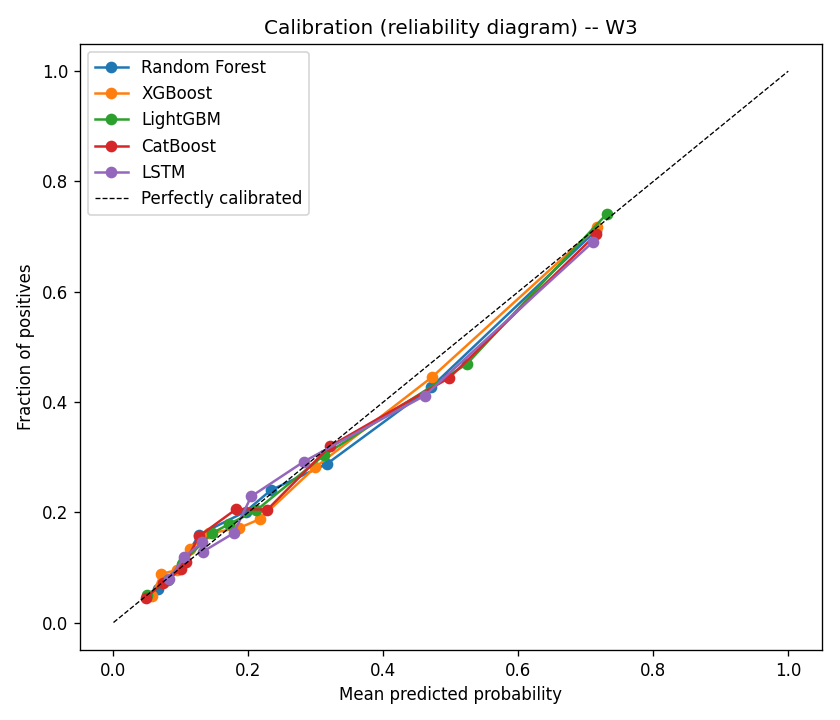
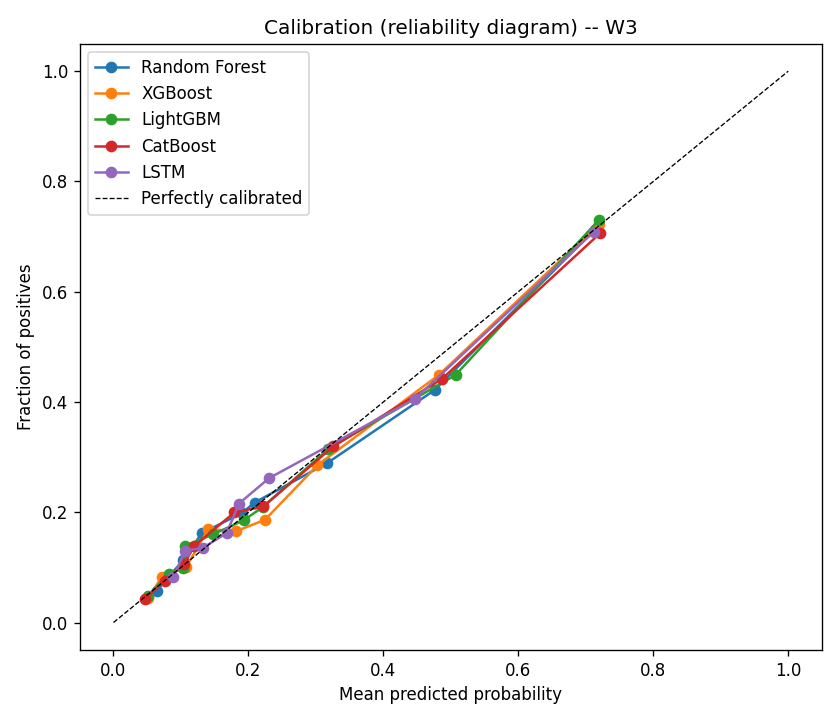
docs: rekonsyliacja liczb po leakage-fix (progi, AUC/Brier, static-vs-dynamic, fairness)
- CHECKLIST: wpisy CREDIT-106/109/111 zaktualizowane do wartosci kanonicznych
  z reports/ (progi RF 0.145 / XGB 0.165 / LGBM 0.160 / CatBoost 0.160 /
  LSTM 0.155; CatBoost AUC 0.7793; static-vs-dyn: 4 modele -5..-11pp,
  LSTM +2.6pp jako jedyny wygrywa monitoringiem)
- PodsumowanieSprintu3/4/5_GF: banery ERRATA (zapis historyczny bez
  przepisywania; wskazanie kanonicznych zrodel + leakage_fix reports)
- Slajdy_Seminarium: tabele slajdow 4/5/6 przeliczone na nowe artefakty,
  honest verdict rozszerzony o wynik LSTM; figures/ odswiezone z reports/

Changed region(s): [[0.1857, 0.275, 0.7429, 0.825], [0.1548, 0.825, 0.1857, 0.8556]]

diff --git a/CHECKLIST.md b/CHECKLIST.md
@@ -100,11 +100,11 @@
   - blocked_by: 101, 102, 104 · blocks: 111
 
 - 🟢 **CREDIT-111** · [EVAL] · P0 · GF · `sprint3/static-vs-dynamic`
-  - **DOWÓD TEZY** — statyka (PD z W3) vs monitoring (trajektoria); catch rate vs fałszywe alarmy. Mixed results @ FA=10%: monitoring tracił 2-6pp catch vs static (max-aggregator noise > single calibrated snapshot), ALE mean lead ~2 okna i 43-184 unikalnych catchy/model. Framing: "monitoring offers earlier detection at comparable discrimination". 3 ROC overlay PNG + 2 CSV + Markdown report.
+  - **DOWÓD TEZY** — statyka (PD z W3) vs monitoring (trajektoria); catch rate vs fałszywe alarmy. Mixed results @ FA=10% *(liczby po leakage-fix 2026-07-07)*: monitoring traci 5-11pp catch vs static dla 4 modeli statycznych, ALE **LSTM jako jedyny wygrywa monitoringiem (+2.6pp)**; mean lead ~2 okna i 39-74 unikalnych catchy/model. Framing: "monitoring offers earlier detection at comparable discrimination". 5 ROC overlay PNG + 2 CSV + Markdown report + `threshold_leakage_fix.md`.
   - blocked_by: 110 · blocks: 114
 
 - 🟢 **CREDIT-106** · [ML] · P1 · GF · SWAP-OK · `sprint3/cost-thresholds`
-  - Progi kosztowe (FN > FP); `alert_thresholds.json` w (0.1, 0.9). Per-model optymalne: RF=0.145 / XGB=0.180 / LSTM=0.185 (FN=5×FP). Flask response z `costThresholds` + `windowAlerts` (additive, non-breaking).
+  - Progi kosztowe (FN > FP); `alert_thresholds.json` w (0.1, 0.9). Per-model optymalne *(po leakage-fix 2026-07-07: optymalizacja na splicie kalibracyjnym, nie testowym)*: RF=0.145 / XGB=0.165 / LGBM=0.160 / CatBoost=0.160 / LSTM=0.155 (FN=5×FP). Flask response z `costThresholds` + `windowAlerts` (additive, non-breaking).
   - blocked_by: 105 · blocks: —
 
 - 🟢 **CREDIT-204** · [BE] · P0 · MK · `sprint3/client-history-get`
@@ -148,7 +148,7 @@
   - blocked_by: 107, 210 · blocks: —
 
 - 🟢 **CREDIT-109** · [ML] · P2 · GF · `sprint5/lgbm-catboost`
-  - LightGBM + CatBoost na oknach 3-mies.; 5 modeli w response Flask. CatBoost najlepszy (AUC 0.7802, Brier 0.1354); cost thresholds rozszerzone do 5 modeli; `compute_trends` iteracyjne po `predictions.keys()`. PR #23, merged 2026-06-05.
+  - LightGBM + CatBoost na oknach 3-mies.; 5 modeli w response Flask. CatBoost najlepszy (AUC 0.7793, Brier 0.1357 *po leakage-fix 2026-07-07*; pierwotnie 0.7802/0.1354); cost thresholds rozszerzone do 5 modeli; `compute_trends` iteracyjne po `predictions.keys()`. PR #23, merged 2026-06-05.
   - blocked_by: 102 · blocks: 113
 
 - 🟢 **CREDIT-112** · [EVAL] · P1 · GF · SWAP-OK · `sprint5/fairness`

diff --git a/PodsumowanieSprintu3_GF.md b/PodsumowanieSprintu3_GF.md
@@ -1,5 +1,15 @@
 # Podsumowanie Sprintu 3 — tor GF (Gabriel Figur)
 
+> ⚠ **ERRATA 2026-07-07:** liczby w tym dokumencie (progi 0.145/0.180/0.185, delty
+> static-vs-dynamic „−2 do −6 pp", „43-184 unikalnych catchy") pochodzą z runu sprzed
+> naprawy wycieków metodologicznych (progi liczone na teście, skalery przed splitem)
+> i sprzed rozszerzenia do 5 modeli. **Kanoniczne wartości:** `reports/metrics_w3.csv`,
+> `ml-service/alert_thresholds.json` (RF 0.145 / XGB 0.165 / LGBM 0.160 / CatBoost 0.160 /
+> LSTM 0.155), `reports/static_vs_dynamic_report.md` (straty 5–11 pp dla 4 modeli,
+> **LSTM +2.6 pp — jedyny wygrywający monitoringiem**, 39–74 unikalnych catchy).
+> Szczegóły: `reports/threshold_leakage_fix.md` + `reports/scaler_leakage_fix.md`.
+> Dokument pozostawiono bez przepisywania jako zapis historyczny sprintu.
+
 > Dokument dla seminarium magisterskiego (2026). Streszcza **mój wkład (GF)** w Sprint 3 projektu
 > `ai-credit-management`: metryki time-series, dowód tezy „statyka vs monitoring" i progi alertu
 > oparte o model kosztów.

diff --git a/PodsumowanieSprintu5_GF.md b/PodsumowanieSprintu5_GF.md
@@ -1,5 +1,13 @@
 # Podsumowanie Sprintu 5 — tor GF (Gabriel Figur)
 
+> ⚠ **ERRATA 2026-07-07:** liczby fairness i progi w tym dokumencie (m.in. XGB próg 0.180,
+> CatBoost 0.130, DPD/EOD z tabeli §2) pochodzą z runu sprzed naprawy wycieków metodologicznych
+> (progi liczone na zbiorze testowym — tym samym, na którym audytowano fairness). Kanoniczne
+> wartości po naprawie: `reports/fairness_metrics_w3.csv` (wszystkie |DPD|/|EOD| ≤ 0.04,
+> werdykt bez zmian; LSTM DPD 0.006/EOD 0.021, CatBoost DPD 0.039/EOD 0.033) przy progach
+> z `ml-service/alert_thresholds.json`. Szczegóły: `reports/threshold_leakage_fix.md`.
+> Dokument pozostawiono bez przepisywania jako zapis historyczny sprintu.
+
 > Dokument dla seminarium magisterskiego (2026). Streszcza **mój wkład (GF)** w Sprint 5 projektu
 > `ai-credit-management`. **Sprint 5 GF zamknięty 1/1 zadania świeżego** (CREDIT-112 fairness audit)
 > + 2 follow-upy do CREDIT-109 (CREDIT-115 BE i CREDIT-116 FE) potraktowane jako audit-trail tasks

diff --git a/PodsumowanieSprintu4_GF.md b/PodsumowanieSprintu4_GF.md
@@ -1,5 +1,12 @@
 # Podsumowanie Sprintu 4 — tor GF (Gabriel Figur)
 
+> ⚠ **ERRATA 2026-07-07:** liczby AUC/Brier/progi w tym dokumencie (m.in. CatBoost
+> AUC 0.7802 / Brier 0.1354, progi 0.130–0.185) pochodzą z runu sprzed naprawy wycieków
+> metodologicznych. Kanoniczne wartości: `reports/metrics_w3.csv` (CatBoost 0.7793/0.1357)
+> i `ml-service/alert_thresholds.json` (RF 0.145 / XGB 0.165 / LGBM 0.160 / CatBoost 0.160 /
+> LSTM 0.155). Szczegóły: `reports/{threshold,scaler}_leakage_fix.md`.
+> Dokument pozostawiono bez przepisywania jako zapis historyczny sprintu.
+
 > Dokument dla seminarium magisterskiego (2026). Streszcza **mój wkład (GF)** w Sprint 4 projektu
 > `ai-credit-management`. **Sprint 4 GF zamknięty w 3/3 zadaniach** (107, 108, 109) — najpierw pivot
 > na 109 dla ścieżki krytycznej, potem powrót po 107+108 zgodnie z planem.
